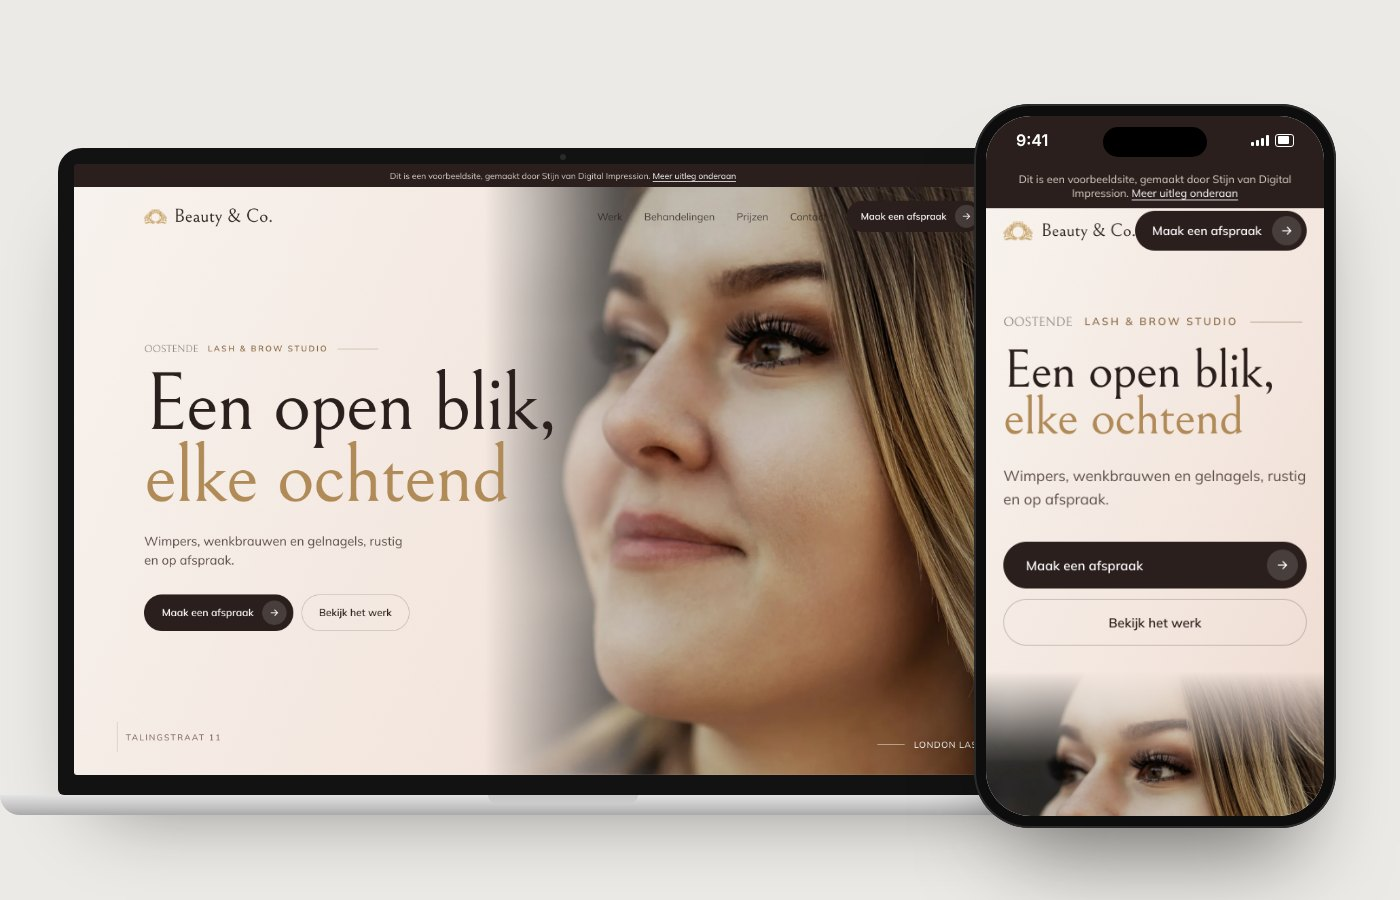
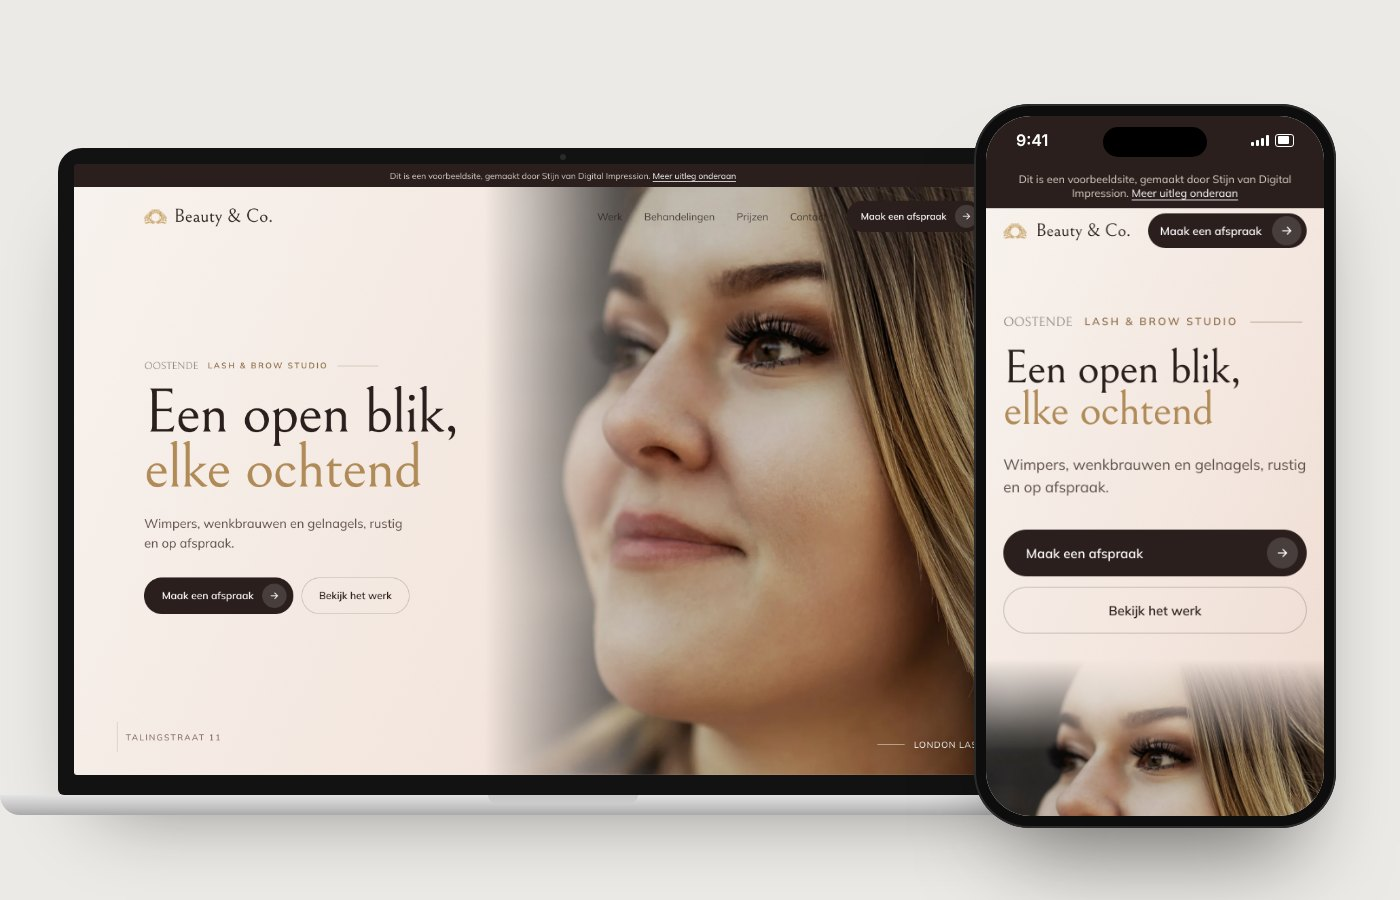
Herbouw demo's: beautyenco-v4
Claude-Session: https://claude.ai/code/session_01TdZ34TXFArNX3EdJKFWCx7

diff --git a/voorbeeld/beautyenco-v4/index.html b/voorbeeld/beautyenco-v4/index.html
@@ -131,9 +131,9 @@ html,body{overflow-x:clip}
 .hero{position:relative;overflow:hidden;background:linear-gradient(115deg,#FBF6F2 0%,#F6E9E1 55%,#EFD9CD 100%)}
 .hero .ph{position:absolute;right:0;top:0;bottom:0;width:58%;-webkit-mask-image:linear-gradient(90deg,transparent 0%,#000 30%);mask-image:linear-gradient(90deg,transparent 0%,#000 30%)}
 .hero .ph img{width:100%;height:100%;object-fit:cover;object-position:60% 22%}
-.hero .grid{position:relative;display:grid;grid-template-columns:1fr 1fr;align-items:center;min-height:min(calc(100svh - 34px),900px);padding-top:128px;padding-bottom:110px}
+.hero .grid{position:relative;display:grid;grid-template-columns:1.15fr .85fr;align-items:center;min-height:min(calc(100svh - 34px),900px);padding-top:128px;padding-bottom:110px}
 .h-txt .idx{color:#8A6A45}
-.h-txt h1{font-size:clamp(70px,8.4vw,132px);line-height:.88;letter-spacing:-.02em;margin-bottom:26px}
+.h-txt h1{font-size:clamp(64px,6.4vw,108px);line-height:.88;letter-spacing:-.02em;margin-bottom:26px}
 .h-txt h1 .acc{color:var(--acc);display:block}
 .h-txt .sub{font-size:18.5px;line-height:1.55;color:#5E4F49;max-width:21em;margin-bottom:36px}
 .h-cap{position:absolute;right:var(--pad);bottom:34px;display:flex;align-items:center;gap:14px;color:#fff;font-size:13px;letter-spacing:.08em;text-transform:uppercase;text-shadow:0 1px 12px rgba(0,0,0,.25)}
@@ -229,7 +229,9 @@ html,body{overflow-x:clip}
  .facts{grid-template-columns:1fr}.facts div+div{padding-left:0;border-left:0;border-top:1px solid rgba(255,255,255,.22)}.facts div{padding:18px 0}
 }
 @media (max-width:640px){
- .h-txt h1{font-size:clamp(58px,16vw,76px)}
+ .h-txt h1{font-size:clamp(52px,14vw,68px)}
+ .nav .brand{font-size:22px}.nav .brand img{height:18px}
+ .nav .btn.k{padding:0 6px 0 14px;font-size:13px;height:40px}
  .h-txt .sub{font-size:17px}
  .hero .ph{height:420px}
  .strip{grid-auto-columns:68vw}
@@ -282,10 +284,10 @@ html,body{overflow-x:clip}
  </div>
  <div class="strip" data-strip>
   <figure class="rm" style="--rad:22px"><img src="img/volume.webp" alt="Russian volume wimpers" loading="lazy"><figcaption><b>Volume</b><span>Wimpers</span></figcaption></figure>
-  <figure class="rm" style="--d:2;--rad:22px"><img src="img/powderbrows.webp" alt="Powderbrows" loading="lazy"><figcaption><b>Powderbrows</b><span>PMU</span></figcaption></figure>
+  <figure class="rm" style="--d:2;--rad:22px"><img src="img/pb-na.webp" alt="Powderbrows" loading="lazy"><figcaption><b>Powderbrows</b><span>PMU</span></figcaption></figure>
   <figure class="rm" style="--d:3;--rad:22px"><img src="img/french.webp" alt="Gelnagels in french" loading="lazy"><figcaption><b>French</b><span>Gelnagels</span></figcaption></figure>
   <figure class="rm" style="--d:4;--rad:22px"><img src="img/oog.webp" alt="Natuurlijke wimper" loading="lazy"><figcaption><b>One by one</b><span>Wimpers</span></figcaption></figure>
-  <figure class="rm" style="--d:5;--rad:22px"><img src="img/brows.webp" alt="Wenkbrauwen voor en na" loading="lazy"><figcaption><b>Henna brows</b><span>Brows</span></figcaption></figure>
+  <figure class="rm" style="--d:5;--rad:22px"><img src="img/lashlift.webp" alt="Lashlift" loading="lazy"><figcaption><b>Lashlift</b><span>Wimpers</span></figcaption></figure>
   <figure class="rm" style="--d:6;--rad:22px"><img src="img/rood.webp" alt="Rode gelnagels" loading="lazy"><figcaption><b>Kleur</b><span>Gelnagels</span></figcaption></figure>
  </div>
 </section>
@@ -295,8 +297,8 @@ html,body{overflow-x:clip}
   <div class="sh"><div><p class="idx r"><span>02</span>Behandelingen</p><h2 class="rl">Vier dingen, heel goed gedaan</h2></div></div>
   <div class="svc">
    <a class="sv r" href="#prijzen"><img src="img/volume.webp" alt="" loading="lazy"><div class="tx"><span class="n">01</span><h3>Wimpers</h3><span class="pr">vanaf € 65 <svg viewBox="0 0 24 24" fill="none" stroke="currentColor" stroke-width="2" stroke-linecap="round"><path d="M5 12h14M13 6l6 6-6 6"/></svg></span></div></a>
-   <a class="sv r" href="#prijzen" style="--d:2"><img src="img/brows.webp" alt="" loading="lazy"><div class="tx"><span class="n">02</span><h3>Wenkbrauwen</h3><span class="pr">vanaf € 18 <svg viewBox="0 0 24 24" fill="none" stroke="currentColor" stroke-width="2" stroke-linecap="round"><path d="M5 12h14M13 6l6 6-6 6"/></svg></span></div></a>
-   <a class="sv r" href="#prijzen" style="--d:3"><img src="img/powderbrows.webp" alt="" loading="lazy"><div class="tx"><span class="n">03</span><h3>Powderbrows</h3><span class="pr">€ 355 <svg viewBox="0 0 24 24" fill="none" stroke="currentColor" stroke-width="2" stroke-linecap="round"><path d="M5 12h14M13 6l6 6-6 6"/></svg></span></div></a>
+   <a class="sv r" href="#prijzen" style="--d:2"><img src="img/pb-duo.webp" alt="" loading="lazy"><div class="tx"><span class="n">02</span><h3>Wenkbrauwen</h3><span class="pr">vanaf € 18 <svg viewBox="0 0 24 24" fill="none" stroke="currentColor" stroke-width="2" stroke-linecap="round"><path d="M5 12h14M13 6l6 6-6 6"/></svg></span></div></a>
+   <a class="sv r" href="#prijzen" style="--d:3"><img src="img/pb-na.webp" alt="" loading="lazy"><div class="tx"><span class="n">03</span><h3>Powderbrows</h3><span class="pr">€ 355 <svg viewBox="0 0 24 24" fill="none" stroke="currentColor" stroke-width="2" stroke-linecap="round"><path d="M5 12h14M13 6l6 6-6 6"/></svg></span></div></a>
    <a class="sv r" href="#prijzen" style="--d:4"><img src="img/nagels.webp" alt="" loading="lazy"><div class="tx"><span class="n">04</span><h3>Gelnagels</h3><span class="pr">vanaf € 55 <svg viewBox="0 0 24 24" fill="none" stroke="currentColor" stroke-width="2" stroke-linecap="round"><path d="M5 12h14M13 6l6 6-6 6"/></svg></span></div></a>
   </div>
  </div>
